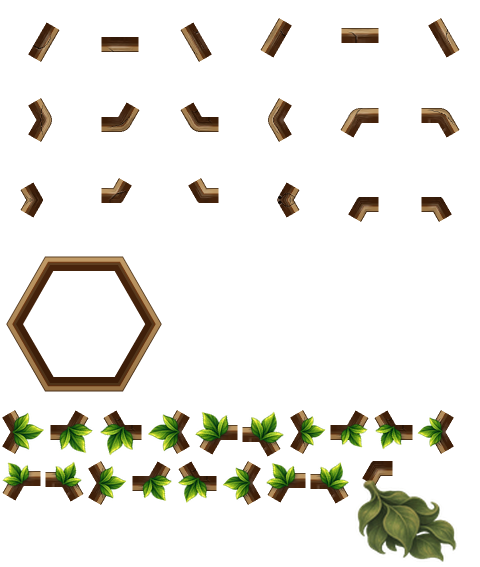
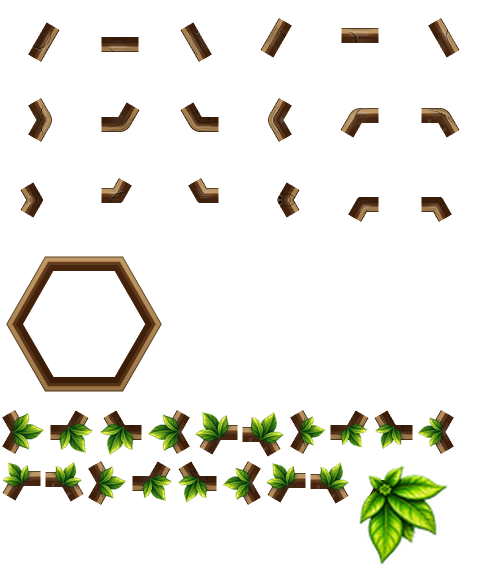
Paint bright front-facing ornaments over the tile rim

diff --git a/tools/board_frame.py b/tools/board_frame.py
@@ -275,15 +275,20 @@ def ornament_join(atlas, art, group, direction, recipe):
     stone = atlas.crop((x, y, x + SLOT, y + SLOT))
     image.paste(stone, (centre - SLOT // 2, centre - SLOT // 2))
 
-    vx, vy = VERTICES[direction]
-    offset = -RADIUS * PPU if group == "inner" else RADIUS * PPU * .16 if group == "walls" else 0
+    if group == "inner":
+        dx, dy = (offset * PPU for offset in recipe["mount"])
+        assert image.getpixel((round(centre + dx), round(centre + dy)))[3] >= 230, "Ornament hub must meet the rim"
+        assert art.getpixel((art.width // 2, art.height // 2))[3] >= 230, "Ornament anchor must be painted"
+    else:
+        vx, vy = VERTICES[direction]
+        offset = RADIUS * PPU * .16 if group == "walls" else 0
+        dx, dy = vx * offset, vy * offset
     size = round(recipe.get("width", 2) * RADIUS * PPU)
     sprite = art.resize((size, size), Image.Resampling.LANCZOS)
     if recipe.get("outward"):
         sprite = sprite.rotate(-(direction * 60 + 90), Image.Resampling.BICUBIC, expand=True)
     foliage = Image.new("RGBA", image.size)
-    foliage.paste(sprite, (round(centre + vx * offset - sprite.width / 2),
-                           round(centre + vy * offset - sprite.height / 2)))
+    foliage.paste(sprite, (round(centre + dx - sprite.width / 2), round(centre + dy - sprite.height / 2)))
 
     # The board paint-over places a small contact shadow where stems cross
     # the lip. Confine it to the stone and preserve the base join's alpha.

diff --git a/docs/review/board-frame-decorations/front.md b/docs/review/board-frame-decorations/front.md
@@ -1,0 +1,29 @@
+# Front-facing board ornaments
+
+The new leaves show their broad faces, with the leaf hub, ribbon knot and
+berry cluster seated over the stone corner. The foliage fans diagonally
+into each opening. Its bright green and red midtones follow the Cradle of
+Rome corner sheet.
+
+Before on the left, after on the right. Relic Rush is above Christmas Market.
+
+![Front-facing ornaments overlapping the rim and tile faces](front-detail.jpg)
+
+| Board | Before | Front-facing ornaments |
+| --- | --- | --- |
+| Relic Rush level 6, 480×900 | ![Earlier Relic Rush ornament](relic-480-baked.jpg) | ![Front-facing leaf cluster](relic-480-front.jpg) |
+| Relic Rush level 6, 390×844 | ![Earlier Relic Rush ornament at the smaller size](relic-390-baked.jpg) | ![Front-facing leaf cluster at the smaller size](relic-390-front.jpg) |
+| Christmas Market level 4, 480×900 | ![Earlier Christmas Market ornaments](christmas-480-baked.jpg) | ![Front-facing bell and pinecone ornaments](christmas-480-front.jpg) |
+| Christmas Market level 4, 390×844 | ![Earlier Christmas Market ornaments at the smaller size](christmas-390-baked.jpg) | ![Front-facing bell and pinecone at the smaller size](christmas-390-front.jpg) |
+
+The three ornaments were painted together with the built-in ImageGen tool
+using the Cradle of Rome corner art and a [guide drawn from the game's hex rim](../../../engine/art/board-frame/rim-attachment-guide.png).
+Registration crops and scales each painting around its hub. The frame
+generator verifies that the hub covers solid stone and bakes a contact
+shadow into the join. The engine draws the decorated join over the tile
+faces and draws the playable pieces above it.
+
+[ImageGen source strip](../../../engine/art/board-frame/rim-rosette-source.png) ·
+[Prompts](../../../engine/art/board-frame/rim-rosette.prompt.txt) ·
+[Crop and mount settings](../../../engine/art/board-frame/decorations.json) ·
+[Atlas generation](baked.md)

diff --git a/games/relic-rush/docs/asset-catalogue.md b/games/relic-rush/docs/asset-catalogue.md
@@ -419,13 +419,13 @@ with six straight runs, six outward joins and six inward joins. Its
 previous frame's bands, seeded grain and cracks with
 `python3 tools/board_frame.py --output build/board-frame`.
 The stone atlas also contains outer joins with three-leaf jungle sprigs and
-an inner join with a matte vine. The vine's diagonal pose comes from the
-[cutout source atlas](../../../engine/art/board-frame/cutout-source.png).
-Its stem crosses the stone and its foliage spans most of the visible empty hex.
-The generator bakes the sprigs and contact shadows into their joins and
+an inner join with a bright front-facing leaf cluster. The broad leaves fan
+diagonally out from a hub seated on top of the stone. The generator bakes the
+[painted leaves](../../../engine/art/board-frame/rim-rosette-source.png)
+and contact shadows into their joins and
 exports `lua/board_frame_atlas.lua` with the registration.
 Run `python3 tools/board_frame.py --game relic-rush --output build/board-frame/relic-rush`.
-[Board paint-over, prompt and level 6 at both phone sizes](../../../docs/review/board-frame-decorations/baked.md).
+[Board close-ups, prompt and level 6 at both phone sizes](../../../docs/review/board-frame-decorations/front.md).
 
 The painted [limestone and cobalt atlas](../art/board-refresh/flat-ground.png)
 these replaced remains as a style reference. [In-game review](../../../docs/review/board-tiles/README.md).

diff --git a/games/christmas-market/docs/asset-catalogue.md b/games/christmas-market/docs/asset-catalogue.md
@@ -365,13 +365,14 @@ this atlas with `python3 tools/board_frame.py --winter --output build/winter-fra
 
 Decorated joins in `data/board-frame/stone.png` combine the stone with painted
 corner trim and contact shadows. Small fir sprigs sit on the outer shoulders,
-with larger variants on the walls of the open-top chamber. The matte bell and
-pinecone project diagonally into the enclosed cutouts.
+with larger variants on the walls of the open-top chamber. The bright bell and
+pinecone ornaments face the viewer and project diagonally into the enclosed
+cutouts from hubs placed on top of the stone.
 The generator uses the [outer source](../../../engine/art/board-frame/decorations-source.png)
-and [cutout source](../../../engine/art/board-frame/cutout-source.png) and
+and [inner rim source](../../../engine/art/board-frame/rim-rosette-source.png) and
 writes the coordinates to `lua/board_frame_atlas.lua`.
 Run `python3 tools/board_frame.py --game christmas-market --output build/board-frame/christmas-market`.
-[Board paint-over, prompt and phone captures](../../../docs/review/board-frame-decorations/baked.md).
+[Board close-ups, prompt and phone captures](../../../docs/review/board-frame-decorations/front.md).
 
 The shared renderer gives each face a 0.18-unit inset over a dark spruce
 backing that supplies the hairline seams. The guide reuses the tablet

diff --git a/docs/MATCH3_ENGINE.md b/docs/MATCH3_ENGINE.md
@@ -169,13 +169,14 @@ mask. Equal distances from that shifted outline get the same opacity. The
 mask is cached with the frame layout and follows board shake and resize.
 The renderer can substitute decorated atlas regions at outward tips and
 the inner shoulders above an opening. The source join contains the stone,
-diagonal ornament and contact shadow. An open-top channel can use larger
+front-facing ornament and contact shadow. The decorated joins are drawn over
+the tile faces, with the playable pieces drawn above them. An open-top channel can use larger
 sprigs baked into its inward tips.
 An optional atlas slot adds snow to the highest horizontal north edges of the
 outer rim. Inner channel edges use bare stone.
 Imported and neutral boards use the default ground geometry.
 [Frame generator, paint guide and in-game review](review/board-frame-atlas/README.md).
-[Painted join atlas and in-game review](review/board-frame-decorations/baked.md).
+[Painted join atlas and in-game review](review/board-frame-decorations/front.md).
 [Board shadow before and after](review/board-frame-decorations/shadow.md).
 Floor tiles are ordinary hex sprites. `tools/board_tiles.py` bakes the eight
 shared Cradle of Rome slots from `engine/art/board-tiles/tiles.json` into each

diff --git a/docs/review/board-frame-decorations/baked.md b/docs/review/board-frame-decorations/baked.md
@@ -1,5 +1,7 @@
 # Ornaments painted into the board rim
 
+[Current front-facing artwork and placement review](front.md).
+
 The ImageGen paint-over uses the two live board captures and Cradle of Rome's
 corner sheet as inputs. The stems crossing the rim and their short contact
 shadows informed the game atlas. The game uses its own flat-top hex geometry
